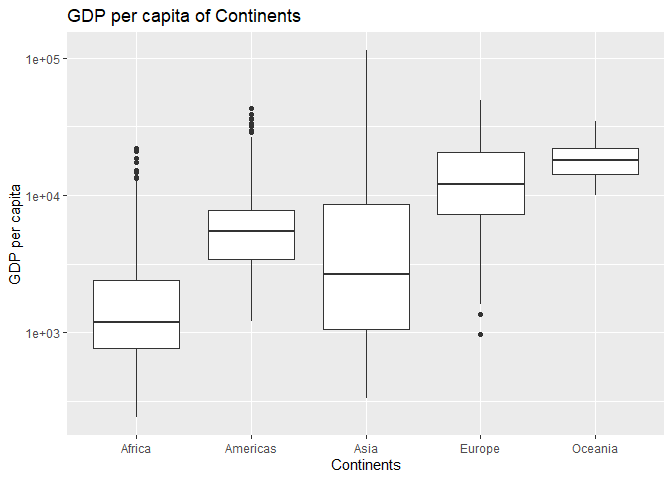
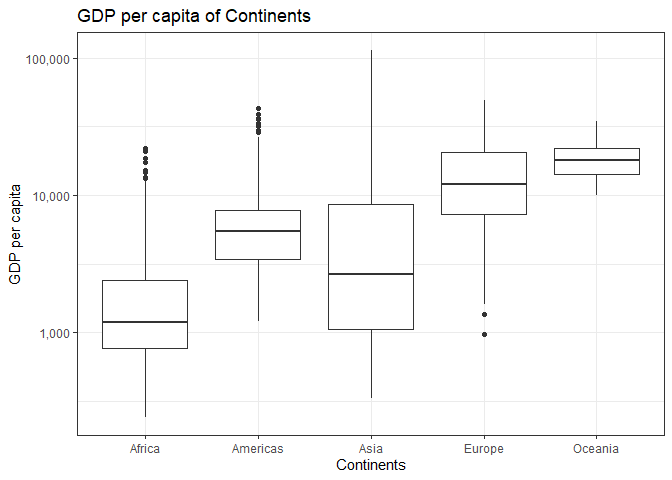
update

diff --git a/HW3/HW03.html b/HW3/HW03.html
@@ -2743,8 +2743,8 @@ summary {
   group_by(year,continent) %&gt;% 
   summarize(low_LE=length(continent))
   knitr::kable(t1) %&gt;% 
-    kable_styling(&quot;basic&quot;,position=&quot;center&quot;)</code></pre>
-<table class="table" style="margin-left: auto; margin-right: auto;">
+    kable_styling(&quot;striped&quot;,position=&quot;center&quot;)</code></pre>
+<table class="table table-striped" style="margin-left: auto; margin-right: auto;">
 <thead>
 <tr>
 <th style="text-align:right;">
@@ -3213,8 +3213,8 @@ Asia
 </tbody>
 </table>
 <pre class="r"><code>  DT::datatable(t1)</code></pre>
-<p><div id="htmlwidget-497386e85db217fe3a33" style="width:100%;height:auto;" class="datatables html-widget"></div>
-<script type="application/json" data-for="htmlwidget-497386e85db217fe3a33">{"x":{"filter":"none","data":[["1","2","3","4","5","6","7","8","9","10","11","12","13","14","15","16","17","18","19","20","21","22","23","24","25","26","27","28","29","30","31","32","33","34","35","36","37","38","39","40","41"],[1952,1952,1952,1952,1957,1957,1957,1957,1962,1962,1962,1962,1967,1967,1967,1967,1972,1972,1972,1972,1977,1977,1977,1977,1982,1982,1982,1987,1987,1987,1992,1992,1992,1997,1997,1997,2002,2002,2002,2007,2007],["Africa","Americas","Asia","Europe","Africa","Americas","Asia","Europe","Africa","Americas","Asia","Europe","Africa","Americas","Asia","Europe","Africa","Americas","Asia","Europe","Africa","Americas","Asia","Europe","Africa","Americas","Asia","Africa","Americas","Asia","Africa","Americas","Asia","Africa","Americas","Asia","Africa","Americas","Asia","Africa","Asia"],[52,19,29,7,52,15,27,3,51,13,25,1,50,11,25,1,50,10,19,1,50,7,14,1,44,5,12,40,2,8,39,2,7,39,1,6,41,1,4,40,3]],"container":"<table class=\"display\">\n  <thead>\n    <tr>\n      <th> <\/th>\n      <th>year<\/th>\n      <th>continent<\/th>\n      <th>low_LE<\/th>\n    <\/tr>\n  <\/thead>\n<\/table>","options":{"columnDefs":[{"className":"dt-right","targets":[1,3]},{"orderable":false,"targets":0}],"order":[],"autoWidth":false,"orderClasses":false}},"evals":[],"jsHooks":[]}</script> This table identifies the number of countries that have life expectancies less than 60 years for each continent in every year recorded.</p>
+<p><div id="htmlwidget-5e727865f5ce007b0681" style="width:100%;height:auto;" class="datatables html-widget"></div>
+<script type="application/json" data-for="htmlwidget-5e727865f5ce007b0681">{"x":{"filter":"none","data":[["1","2","3","4","5","6","7","8","9","10","11","12","13","14","15","16","17","18","19","20","21","22","23","24","25","26","27","28","29","30","31","32","33","34","35","36","37","38","39","40","41"],[1952,1952,1952,1952,1957,1957,1957,1957,1962,1962,1962,1962,1967,1967,1967,1967,1972,1972,1972,1972,1977,1977,1977,1977,1982,1982,1982,1987,1987,1987,1992,1992,1992,1997,1997,1997,2002,2002,2002,2007,2007],["Africa","Americas","Asia","Europe","Africa","Americas","Asia","Europe","Africa","Americas","Asia","Europe","Africa","Americas","Asia","Europe","Africa","Americas","Asia","Europe","Africa","Americas","Asia","Europe","Africa","Americas","Asia","Africa","Americas","Asia","Africa","Americas","Asia","Africa","Americas","Asia","Africa","Americas","Asia","Africa","Asia"],[52,19,29,7,52,15,27,3,51,13,25,1,50,11,25,1,50,10,19,1,50,7,14,1,44,5,12,40,2,8,39,2,7,39,1,6,41,1,4,40,3]],"container":"<table class=\"display\">\n  <thead>\n    <tr>\n      <th> <\/th>\n      <th>year<\/th>\n      <th>continent<\/th>\n      <th>low_LE<\/th>\n    <\/tr>\n  <\/thead>\n<\/table>","options":{"columnDefs":[{"className":"dt-right","targets":[1,3]},{"orderable":false,"targets":0}],"order":[],"autoWidth":false,"orderClasses":false}},"evals":[],"jsHooks":[]}</script> This table identifies the number of countries that have life expectancies less than 60 years for each continent in every year recorded.</p>
 <p>We can also present this data graphically as follows:</p>
 <pre class="r"><code>ggplot(t1)+
   geom_point(aes(year,low_LE,group=continent,color=continent))+ geom_path((aes(year,low_LE,group=continent,color=continent)))+
@@ -3307,10 +3307,9 @@ Oceania
 </table>
 <pre class="r"><code>ggplot(t2)+
   geom_point(aes(continent, min_GDP,color=&quot;min&quot;),size=5, shape=&quot;square&quot;) + geom_point(aes(continent,max_GDP,colour=&quot;max&quot;),size=5,shape=&quot;square&quot;,alpha=0.6)+
-  geom_linerange(aes(x=continent,ymin=min_GDP,ymax=max_GDP),width=3,size=1,colour=&quot;dark gray&quot;,alpha=0.5)+
+  geom_linerange(aes(x=continent,ymin=min_GDP,ymax=max_GDP),size=1,colour=&quot;dark gray&quot;,alpha=0.5)+
   labs(x=&quot;Continents&quot;,y=&quot;GDP per capita&quot;,title=&quot;Maximum and Minimum GDP per capita of Continents&quot;) + theme(legend.position=&quot;right&quot;)+ 
   theme_bw()</code></pre>
-<pre><code>## Warning: Ignoring unknown parameters: width</code></pre>
[1 lines of base64/hex data omitted]
 </div>
 <div id="task-option-3" class="section level2">
@@ -3456,10 +3455,10 @@ Oceania
   arrange(continent)%&gt;%
   ggplot()+
   geom_boxplot(aes(continent,gdpPercap)) +
-  scale_y_log10()+
+  scale_y_log10(labels=comma)+ 
   labs(x=&quot;Continents&quot;,y=&quot;GDP per capita&quot;,title=&quot;GDP per capita of Continents&quot;)+
   theme_get()</code></pre>
[2 lines of base64/hex data omitted]
 </div>
 <div id="task-option-4" class="section level2">
 <h2>Task Option 4</h2>

diff --git a/HW3/HW03.md b/HW3/HW03.md
@@ -40,10 +40,10 @@ t1<-gapminder %>%
   group_by(year,continent) %>% 
   summarize(low_LE=length(continent))
   knitr::kable(t1) %>% 
-    kable_styling("basic",position="center")
+    kable_styling("striped",position="center")
 ```
 
-<table class="table" style="margin-left: auto; margin-right: auto;">
+<table class="table table-striped" style="margin-left: auto; margin-right: auto;">
  <thead>
   <tr>
    <th style="text-align:right;"> year </th>
@@ -264,8 +264,8 @@ t1<-gapminder %>%
   DT::datatable(t1)
 ```
 
-<!--html_preserve--><div id="htmlwidget-497386e85db217fe3a33" style="width:100%;height:auto;" class="datatables html-widget"></div>
-<script type="application/json" data-for="htmlwidget-497386e85db217fe3a33">{"x":{"filter":"none","data":[["1","2","3","4","5","6","7","8","9","10","11","12","13","14","15","16","17","18","19","20","21","22","23","24","25","26","27","28","29","30","31","32","33","34","35","36","37","38","39","40","41"],[1952,1952,1952,1952,1957,1957,1957,1957,1962,1962,1962,1962,1967,1967,1967,1967,1972,1972,1972,1972,1977,1977,1977,1977,1982,1982,1982,1987,1987,1987,1992,1992,1992,1997,1997,1997,2002,2002,2002,2007,2007],["Africa","Americas","Asia","Europe","Africa","Americas","Asia","Europe","Africa","Americas","Asia","Europe","Africa","Americas","Asia","Europe","Africa","Americas","Asia","Europe","Africa","Americas","Asia","Europe","Africa","Americas","Asia","Africa","Americas","Asia","Africa","Americas","Asia","Africa","Americas","Asia","Africa","Americas","Asia","Africa","Asia"],[52,19,29,7,52,15,27,3,51,13,25,1,50,11,25,1,50,10,19,1,50,7,14,1,44,5,12,40,2,8,39,2,7,39,1,6,41,1,4,40,3]],"container":"<table class=\"display\">\n  <thead>\n    <tr>\n      <th> <\/th>\n      <th>year<\/th>\n      <th>continent<\/th>\n      <th>low_LE<\/th>\n    <\/tr>\n  <\/thead>\n<\/table>","options":{"columnDefs":[{"className":"dt-right","targets":[1,3]},{"orderable":false,"targets":0}],"order":[],"autoWidth":false,"orderClasses":false}},"evals":[],"jsHooks":[]}</script><!--/html_preserve-->
+<!--html_preserve--><div id="htmlwidget-5e727865f5ce007b0681" style="width:100%;height:auto;" class="datatables html-widget"></div>
+<script type="application/json" data-for="htmlwidget-5e727865f5ce007b0681">{"x":{"filter":"none","data":[["1","2","3","4","5","6","7","8","9","10","11","12","13","14","15","16","17","18","19","20","21","22","23","24","25","26","27","28","29","30","31","32","33","34","35","36","37","38","39","40","41"],[1952,1952,1952,1952,1957,1957,1957,1957,1962,1962,1962,1962,1967,1967,1967,1967,1972,1972,1972,1972,1977,1977,1977,1977,1982,1982,1982,1987,1987,1987,1992,1992,1992,1997,1997,1997,2002,2002,2002,2007,2007],["Africa","Americas","Asia","Europe","Africa","Americas","Asia","Europe","Africa","Americas","Asia","Europe","Africa","Americas","Asia","Europe","Africa","Americas","Asia","Europe","Africa","Americas","Asia","Europe","Africa","Americas","Asia","Africa","Americas","Asia","Africa","Americas","Asia","Africa","Americas","Asia","Africa","Americas","Asia","Africa","Asia"],[52,19,29,7,52,15,27,3,51,13,25,1,50,11,25,1,50,10,19,1,50,7,14,1,44,5,12,40,2,8,39,2,7,39,1,6,41,1,4,40,3]],"container":"<table class=\"display\">\n  <thead>\n    <tr>\n      <th> <\/th>\n      <th>year<\/th>\n      <th>continent<\/th>\n      <th>low_LE<\/th>\n    <\/tr>\n  <\/thead>\n<\/table>","options":{"columnDefs":[{"className":"dt-right","targets":[1,3]},{"orderable":false,"targets":0}],"order":[],"autoWidth":false,"orderClasses":false}},"evals":[],"jsHooks":[]}</script><!--/html_preserve-->
 This table identifies the number of countries that have life expectancies less than 60 years for each continent in every year recorded.
 
 We can also present this data graphically as follows:
@@ -337,13 +337,9 @@ knitr::kable(t2) %>%
 ```r
 ggplot(t2)+
   geom_point(aes(continent, min_GDP,color="min"),size=5, shape="square") + geom_point(aes(continent,max_GDP,colour="max"),size=5,shape="square",alpha=0.6)+
-  geom_linerange(aes(x=continent,ymin=min_GDP,ymax=max_GDP),width=3,size=1,colour="dark gray",alpha=0.5)+
+  geom_linerange(aes(x=continent,ymin=min_GDP,ymax=max_GDP),size=1,colour="dark gray",alpha=0.5)+
   labs(x="Continents",y="GDP per capita",title="Maximum and Minimum GDP per capita of Continents") + theme(legend.position="right")+ 
   theme_bw()
-```
-
-```
-## Warning: Ignoring unknown parameters: width
 ```
 
 <img src="HW03_files/figure-html/unnamed-chunk-4-1.png" style="display: block; margin: auto;" />
@@ -426,13 +422,13 @@ gapminder %>%
   arrange(continent)%>%
   ggplot()+
   geom_boxplot(aes(continent,gdpPercap)) +
-  scale_y_log10()+
+  scale_y_log10(labels=comma)+ 
   labs(x="Continents",y="GDP per capita",title="GDP per capita of Continents")+
   theme_get()
 ```
 
 <img src="HW03_files/figure-html/unnamed-chunk-6-1.png" style="display: block; margin: auto;" />
-This is a boxplot of the GDP per capita of the various continents. The 
+This is a boxplot of the GDP per capita of the various continents showing the minimum(lowest point of the vertical line), the maximum(highest point of the vertical line), and the median(horizontal line within the box) values for each continent's GDP per capita.
 
 ## Task Option 4
 Compute a trimmed mean of life expectancy for different years. Or a weighted mean, weighting by population. Just try something other than the plain vanilla mean.
